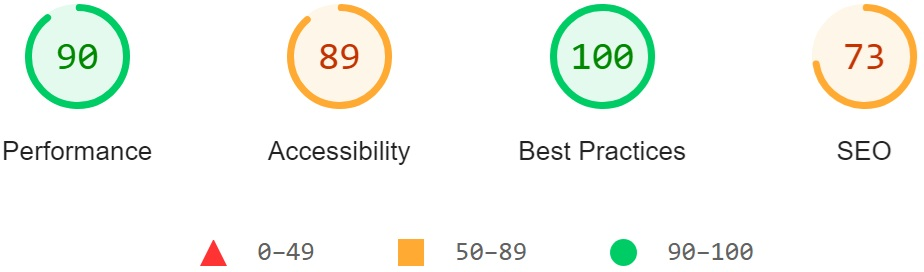
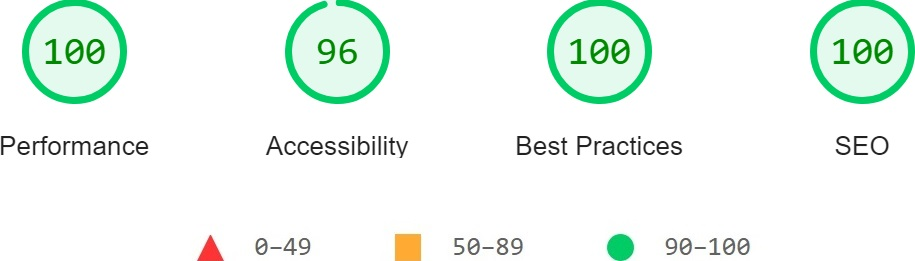
Improved Performance, fixed robots.txt

diff --git a/src/pages/News.jsx b/src/pages/News.jsx
@@ -42,7 +42,7 @@ function News() {
 												<tr><td><strong>{t('team.achievements.type')}:</strong> Online</td></tr>
 												<tr>
 													<td>
-														<strong>{t('team.achievements.location')}:</strong> <img className="flag" style={{ marginRight: '4px' }} src={eu} alt="eu" />{t('countries.eu')}
+														<strong>{t('team.achievements.location')}:</strong> <img className="flag" style={{ marginRight: '4px' }} src={eu} alt="eu" loading="lazy" />{t('countries.eu')}
 													</td>
 												</tr>
 												<tr><td><strong>{t('team.achievements.numOfTeams')}:</strong> 32</td></tr>
@@ -53,17 +53,17 @@ function News() {
 										</table>
 									</div>
 								</div>
-								<Trans i18nKey="news.text1" components={[<img className="flag" src={by} alt="by" />, <img className="flag" src={kz} alt="kz" />, <img className="flag" src={ru} alt="ru" />, <img className="flag" src={cis} alt="cis" />, <img className="flag" src={ua} alt="ua" />, <img className="flag" src={bg} alt="bg" />,]} />
+								<Trans i18nKey="news.text1" components={[<img className="flag" src={by} alt="by" loading="lazy" />, <img className="flag" src={kz} alt="kz" loading="lazy" />, <img className="flag" src={ru} alt="ru" loading="lazy" />, <img className="flag" src={cis} alt="cis" loading="lazy" />, <img className="flag" src={ua} alt="ua" loading="lazy" />, <img className="flag" src={bg} alt="bg" loading="lazy" />,]} />
 								<p className="roaster-list">
-									<Trans i18nKey="news.text2" components={[<img className="flag" src={by} alt="by" />, <img className="flag" src={kz} alt="kz" />, <img className="flag" src={ru} alt="ru" />, <img className="flag" src={cis} alt="cis" />, <img className="flag" src={ua} alt="ua" />, <img className="flag" src={bg} alt="bg" />,]} />
+									<Trans i18nKey="news.text2" components={[<img className="flag" src={by} alt="by" loading="lazy" />, <img className="flag" src={kz} alt="kz" loading="lazy" />, <img className="flag" src={ru} alt="ru" loading="lazy" />, <img className="flag" src={cis} alt="cis" loading="lazy" />, <img className="flag" src={ua} alt="ua" loading="lazy" />, <img className="flag" src={bg} alt="bg" loading="lazy" />,]} />
 								</p>
-								<Trans i18nKey="news.text3" components={[<img className="flag" src={by} alt="by" />, <img className="flag" src={kz} alt="kz" />, <img className="flag" src={ru} alt="ru" />, <img className="flag" src={cis} alt="cis" />, <img className="flag" src={ua} alt="ua" />, <img className="flag" src={bg} alt="bg" />,]} />
+								<Trans i18nKey="news.text3" components={[<img className="flag" src={by} alt="by" loading="lazy" />, <img className="flag" src={kz} alt="kz" loading="lazy" />, <img className="flag" src={ru} alt="ru" loading="lazy" />, <img className="flag" src={cis} alt="cis" loading="lazy" />, <img className="flag" src={ua} alt="ua" loading="lazy" />, <img className="flag" src={bg} alt="bg" loading="lazy" />,]} />
 								<div className="description-one-news" style={{ padding: '1rem 0' }}>
 									<table className="player-statistics">
 										<caption>Overpass</caption>
 										<thead>
 											<tr>
-												<th><img className="flag" src={cis} alt="cis" /> Howl Gaming <strong>4</strong></th>
+												<th><img className="flag" src={cis} alt="cis" loading="lazy" /> Howl Gaming <strong>4</strong></th>
 												<th>{t('news.kd')}</th>
 												<th>{t('news.kdRatio')}</th>
 												<th>{t('news.kr')}</th>
@@ -73,7 +73,7 @@ function News() {
 										</thead>
 										<tbody>
 											<tr>
-												<td><img className="flag" src={kz} alt="kz" /> KLDS</td>
+												<td><img className="flag" src={kz} alt="kz" loading="lazy" /> KLDS</td>
 												<td>24-16</td>
 												<td>1.6</td>
 												<td>idk</td>
@@ -81,7 +81,7 @@ function News() {
 												<td>123</td>
 											</tr>
 											<tr>
-												<td><img className="flag" src={by} alt="by" /> Bulhkin</td>
+												<td><img className="flag" src={by} alt="by" loading="lazy" /> Bulhkin</td>
 												<td>9-18</td>
 												<td>0.47</td>
 												<td>idk</td>
@@ -89,7 +89,7 @@ function News() {
 												<td>46</td>
 											</tr>
 											<tr>
-												<td><img className="flag" src={ru} alt="ru" /> DeeZiK</td>
+												<td><img className="flag" src={ru} alt="ru" loading="lazy" /> DeeZiK</td>
 												<td>8-17</td>
 												<td>0.41</td>
 												<td>idk</td>
@@ -97,7 +97,7 @@ function News() {
 												<td>55</td>
 											</tr>
 											<tr>
-												<td><img className="flag" src={ua} alt="ua" /> bat</td>
+												<td><img className="flag" src={ua} alt="ua" loading="lazy" /> bat</td>
 												<td>7-19</td>
 												<td>0.38</td>
 												<td>idk</td>
@@ -105,7 +105,7 @@ function News() {
 												<td>40</td>
 											</tr>
 											<tr>
-												<td><img className="flag" src={kz} alt="kz" /> DK_1GE</td>
+												<td><img className="flag" src={kz} alt="kz" loading="lazy" /> DK_1GE</td>
 												<td>5-20</td>
 												<td>0.26</td>
 												<td>idk</td>
@@ -118,7 +118,7 @@ function News() {
 									<table className="player-statistics">
 										<thead>
 											<tr>
-												<th><img className="flag" src={bg} alt="bg" /> FATE <strong className="won">16</strong></th>
+												<th><img className="flag" src={bg} alt="bg" loading="lazy" /> FATE <strong className="won">16</strong></th>
 												<th>{t('news.kd')}</th>
 												<th>{t('news.kdRatio')}</th>
 												<th>{t('news.kr')}</th>
@@ -128,7 +128,7 @@ function News() {
 										</thead>
 										<tbody>
 											<tr>
-												<td><img className="flag" src={bg} alt="bg" /> Dupliacte</td>
+												<td><img className="flag" src={bg} alt="bg" loading="lazy" /> Dupliacte</td>
 												<td>22-11</td>
 												<td>1.72</td>
 												<td>idk</td>
@@ -136,7 +136,7 @@ function News() {
 												<td>91</td>
 											</tr>
 											<tr>
-												<td><img className="flag" src={bg} alt="bg" /> Patrick</td>
+												<td><img className="flag" src={bg} alt="bg" loading="lazy" /> Patrick</td>
 												<td>22-12</td>
 												<td>2.00</td>
 												<td>idk</td>
@@ -144,7 +144,7 @@ function News() {
 												<td>116</td>
 											</tr>
 											<tr>
-												<td><img className="flag" src={bg} alt="bg" /> doublemagic</td>
+												<td><img className="flag" src={bg} alt="bg" loading="lazy" /> doublemagic</td>
 												<td>18-9</td>
 												<td>2.00</td>
 												<td>idk</td>
@@ -152,7 +152,7 @@ function News() {
 												<td>91</td>
 											</tr>
 											<tr>
-												<td><img className="flag" src={bg} alt="bg" /> Rainwaker</td>
+												<td><img className="flag" src={bg} alt="bg" loading="lazy" /> Rainwaker</td>
 												<td>12-11</td>
 												<td>1.30</td>
 												<td>idk</td>
@@ -160,7 +160,7 @@ function News() {
 												<td>58</td>
 											</tr>
 											<tr>
-												<td><img className="flag" src={bg} alt="bg" /> sTeFFe2KkK8</td>
+												<td><img className="flag" src={bg} alt="bg" loading="lazy" /> sTeFFe2KkK8</td>
 												<td>14-12</td>
 												<td>1.27</td>
 												<td>idk</td>
@@ -170,7 +170,7 @@ function News() {
 										</tbody>
 									</table>
 								</div>
-								<Trans i18nKey="news.text4" components={[<img className="flag" src={by} alt="by" />, <img className="flag" src={kz} alt="kz" />, <img className="flag" src={ru} alt="ru" />, <img className="flag" src={cis} alt="cis" />, <img className="flag" src={ua} alt="ua" />, <img className="flag" src={bg} alt="bg" />,]} />
+								<Trans i18nKey="news.text4" components={[<img className="flag" src={by} alt="by" loading="lazy" />, <img className="flag" src={kz} alt="kz" loading="lazy" />, <img className="flag" src={ru} alt="ru" loading="lazy" />, <img className="flag" src={cis} alt="cis" loading="lazy" />, <img className="flag" src={ua} alt="ua" loading="lazy" />, <img className="flag" src={bg} alt="bg" loading="lazy" />,]} />
 							</div>
 						</div>
 					</div>

diff --git a/src/pages/Player.jsx b/src/pages/Player.jsx
@@ -60,7 +60,7 @@ function Player() {
 								<div className="player-info">
 									<div>
 										<span className="player-info-cat">{t('player.country')}: </span>
-										<span className="player-info-text"><img className="flag" style={{ marginRight: '4px' }} src={flagImages[country]} alt={country} />{t(`countries.${country}`)}</span>
+										<span className="player-info-text"><img className="flag" style={{ marginRight: '4px' }} src={flagImages[country]} alt={country} loading="lazy" />{t(`countries.${country}`)}</span>
 									</div>
 									<div>
 										<span className="player-info-cat">{t('player.age')}: </span>
@@ -140,7 +140,7 @@ function Player() {
 						<div className={`${activeTab === 1 ? 'active' : 'selector-sect'} section-half js-sameheight`}>
 							<h2 className="section__title h4">CS:GO <strong lang='en'>{gamerTag}</strong></h2>
 							<div className="desc">
-								<Trans i18nKey={story} components={[<img className="flag" src={by} alt="by" />, <img className="flag" src={kz} alt="kz" />, <img className="flag" src={ru} alt="ru" />, <img className="flag" src={cis} alt="cis" />, <img className="flag" src={ua} alt="ua" />]} />
+								<Trans i18nKey={story} components={[<img className="flag" src={by} alt="by" loading="lazy" />, <img className="flag" src={kz} alt="kz" loading="lazy" />, <img className="flag" src={ru} alt="ru" loading="lazy" />, <img className="flag" src={cis} alt="cis" loading="lazy" />, <img className="flag" src={ua} alt="ua" loading="lazy" />]} />
 							</div>
 							<h2 className="section__title h4">
 								<Trans i18nKey="player.about.highlights" values={{ name: t(gamerTagGen) }} />
@@ -281,7 +281,7 @@ function Player() {
 													</div>
 													<div className="location-staff">
 														<strong>{t('team.achievements.location')}:</strong>{" "}
-														<img className="flag" style={{ marginRight: '4px' }} src={flagImages[achievement.country]} alt={achievement.country} />{achievement.location}
+														<img className="flag" style={{ marginRight: '4px' }} src={flagImages[achievement.country]} alt={achievement.country} loading="lazy" />{achievement.location}
 													</div>
 													<div className="location-staff">
 														<strong>{t('team.achievements.numOfTeams')}:</strong> {achievement.numberOfTeams}

diff --git a/src/components/Navbar.jsx b/src/components/Navbar.jsx
@@ -143,14 +143,14 @@ function Navbar() {
 							<ul className="main-menu">
 								<li className="lang">
 									<button style={{ display: 'flex', alignItems: 'center', background: 'none', border: 'none', cursor: 'pointer', padding: 0 }}>
-										<img className="flag" src={languageFlags[currentLanguage]} style={{ marginRight: '4px' }} alt={currentLanguage} />
+										<img className="flag" src={languageFlags[currentLanguage]} style={{ marginRight: '4px' }} alt={`Flag representing language ${currentLanguage}`} loading="lazy" />
 										{currentLanguage === 'be-Latn' ? 'be' : currentLanguage}
 									</button>
 									<ul>
 										{otherLanguages.map((lng) => (
 											<li key={lng}>
 												<button onClick={() => changeLanguage(lng)} style={{ display: 'flex', alignItems: 'center', background: 'none', border: 'none', cursor: 'pointer' }}>
-													<img className="flag" src={languageFlags[lng]} style={{ marginRight: '4px' }} alt={lng} />
+													<img className="flag" src={languageFlags[lng]} style={{ marginRight: '4px' }} alt={`Flag representing language ${lng}`} loading="lazy" />
 													{lng}
 												</button>
 											</li>

diff --git a/index.html b/index.html
@@ -3,8 +3,10 @@
   <head>
     <meta charset="UTF-8" />
     <link rel="icon" type="image/svg+xml" href="src/assets/img/logos/logo.png" />
-    <link rel="preconnect" href="https://fonts.gstatic.com" crossorigin>
+    <link rel="preconnect" href="https://fonts.gstatic.com" crossorigin="anonymous">
     <link rel="dns-prefetch" href="https://fonts.gstatic.com">
+    <link rel="preconnect" href="https://fonts.googleapis.com" crossorigin="anonymous">
+    <link rel="dns-prefetch" href="https://fonts.googleapis.com">
     <link rel="stylesheet" href="src/styles/style.css">
     <link rel="stylesheet" href="src/styles/footer.css">
     <link rel="stylesheet" href="src/styles/matches.css">

diff --git a/src/pages/Team.jsx b/src/pages/Team.jsx
@@ -212,7 +212,7 @@ function Team() {
 													</div>
 													<div className="location-staff">
 														<strong>{t('team.achievements.location')}:</strong>{" "}
-														<img className="flag" style={{ marginRight: '4px' }} src={flagImages[achievement.country]} alt={achievement.country} />{achievement.location}
+														<img className="flag" style={{ marginRight: '4px' }} src={flagImages[achievement.country]} alt={achievement.country} loading="lazy" />{achievement.location}
 													</div>
 													<div className="location-staff">
 														<strong>{t('team.achievements.numOfTeams')}:</strong> {achievement.numberOfTeams}

diff --git a/src/styles/fonts.css b/src/styles/fonts.css
@@ -2,7 +2,3 @@
 @import url('https://fonts.googleapis.com/css2?family=Varela+Round&display=swap');
 @import url('https://fonts.googleapis.com/css2?family=Poppins:ital,wght@0,100;0,200;0,300;0,400;0,500;0,600;0,700;0,800;0,900;1,100;1,200;1,300;1,400;1,500;1,600;1,700;1,800;1,900&display=swap');
 @import url('https://fonts.googleapis.com/css2?family=Fira+Sans:wght@200&family=Philosopher&family=Roboto:ital,wght@0,500;0,700;0,900;1,100;1,300;1,400;1,500;1,700;1,900&display=swap');
-/* @font-face {
-	src: url(src/styles/fonts/'Roboto'-Medium.woff);
-	font-family: 'Roboto';
-} */

diff --git a/src/pages/Teams.jsx b/src/pages/Teams.jsx
@@ -57,7 +57,7 @@ function Teams() {
 										{teamMembers.map((player) => (
 											<React.Fragment key={player.gamerTag}>
 												<Link to={`../player/${player.gamerTag}`}>
-													<img className="flag" src={flagImages[player.country]} alt={player.country} />{" "}
+													<img className="flag" src={flagImages[player.country]} alt={player.country} loading="lazy" />{" "}
 													{t(player.firstName)} <strong>«{player.gamerTag}»</strong> {t(player.lastName)}
 												</Link>
 												<br />

diff --git a/src/pages/Home.jsx b/src/pages/Home.jsx
@@ -40,7 +40,7 @@ function Home() {
 										</Link>
 										<Link className="sections__item" to="/team/osu">
 											<div className="sections__item__content">
-												<div className="sections__item__title"><img src={pubg} alt="osu!" /></div>
+												<div className="sections__item__title"><img src={pubg} alt="Osu" /></div>
 												<div className="sections__item__subtitle">osu!</div>
 											</div>
 										</Link>

diff --git a/src/components/Footer.jsx b/src/components/Footer.jsx
@@ -31,7 +31,7 @@ function Footer() {
 				<div className="box-footer">
 					<div className="container">
 						<div className="content-footer">
-							<img src={logo} />
+							<img src={logo} alt="HOWL Gaming Logo" />
 							<div className="social-footer">
 								<ul className="social-menu">
 									<li className="social-menu-item">
